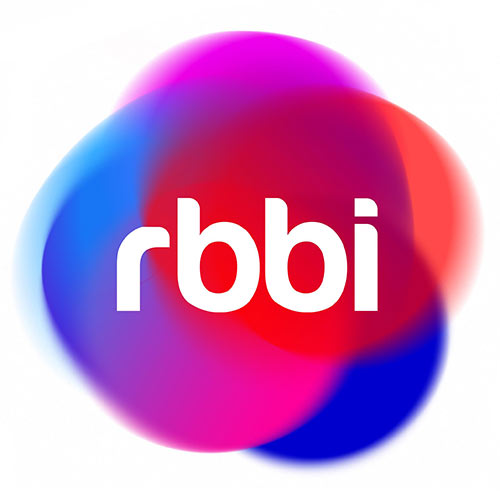
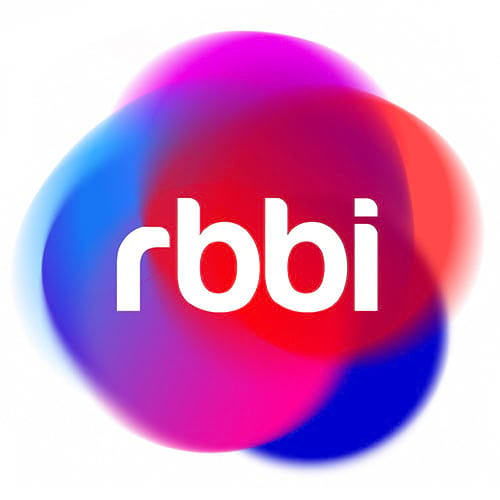
chore+update(projects): Image compression and project updates

diff --git a/index.html b/index.html
@@ -112,11 +112,11 @@
           <p class="lead mb-4">
             I'm a
             <strong>front-end developer with 6 years of experience</strong>
-            and with a strong background in <strong>User Experience</strong>. I've had
-            the opportunity to work with culturally diverse teams and tech
-            stacks which opened up avenues to projects of varying scales such
-            as WordPress sites, SPAs, Sitecore sites and custom MVC frameworks.
-            As for my education; I majored in
+            and with a strong background in <strong>User Experience</strong>.
+            I've had the opportunity to work with culturally diverse teams and
+            tech stacks which opened up avenues to projects of varying scales
+            such as WordPress sites, SPAs, Sitecore sites and custom MVC
+            frameworks. As for my education; I majored in
             <strong>Computer Systems</strong> and graduated with
             <strong>distinction</strong> from Heriot-Watt University in Dubai.
           </p>
@@ -217,7 +217,7 @@
                 <div class="company-logo">
                   <img
                     class="pt-2"
-                    src="img/omnia-logo.jpeg"
+                    src="img/omnia-logo.jpg"
                     alt="OMNIA"
                     width="55"
                   />
@@ -657,8 +657,8 @@
             <div class="col-lg-6">
               <img
                 class="img-fluid"
-                src="img/cf-food-ordering-app.png"
-                alt="Jungle CommerceJS"
+                src="img/cf-food-ordering-app.jpg"
+                alt="Food Ordering App"
               />
             </div>
             <div class="col-lg-6">
@@ -694,7 +694,7 @@
             <div class="col-lg-6">
               <img
                 class="img-fluid"
-                src="img/jungle-commerce-js.png"
+                src="img/jungle-commerce-js.jpg"
                 alt="Jungle CommerceJS"
               />
             </div>
@@ -732,7 +732,7 @@
                 type="video/mp4;"
               />
               <img
-                src="img/face-recog.png"
+                src="img/face-recog.jpg"
                 title="Your browser does not support the <video> tag"
               />
             </video>
@@ -767,12 +767,13 @@
               </div>
             </div>
           </div>
+
           <div class="row justify-content-center no-gutters my-5">
             <div class="col-lg-6">
               <img
                 class="img-fluid"
-                src="img/travel-site.png"
-                alt="Modern Developer Standards"
+                src="img/react-image-gallery.png"
+                alt="React Image Gallery"
               />
             </div>
             <div class="col-lg-6 order-lg-first">
@@ -781,23 +782,17 @@
                   <div
                     class="project-text w-100 my-auto text-center text-lg-left"
                   >
-                    <h4 class="text-black">
-                      Showcasing Modern Developer Standards
-                    </h4>
+                    <h4 class="text-black">React Image Gallery</h4>
                     <p class="mb-0 text-black-50">
-                      In an effort to continuously catch up with the ever
-                      evolving world of development, I created a demo site to
-                      showcase my expertise and knowledge of modern development
-                      standards. The technologies I used for this fully
-                      responsive & optimized site are: Node.js, NPM,
-                      Object-oriented JavaScript, ES6, webpack, Gulp & BEM
+                      Powered by React and styled with Tailwind, I built a
+                      searchable image gallery app using the Pixabay API.
                     </p>
                     <a
                       class="btn btn--portfolio-links mt-3"
-                      href="https://nigelmarshal.github.io/travel-site/"
+                      href="https://github.com/NigelMarshal/react-tailwind-image-gallery"
                       target="_blank"
                       rel="noopener noreferrer"
-                      >Click me and check it out!</a
+                      >Check out the code and demo here!</a
                     >
                     <hr class="d-none d-lg-block mb-0 mr-0" />
                   </div>
@@ -965,6 +960,49 @@
                       its "like" button.
                     </p>
                     <hr class="d-none d-lg-block mb-0 ml-0" />
+                  </div>
+                </div>
+              </div>
+            </div>
+            <div class="row justify-content-center no-gutters my-5">
+              <div class="col-lg-6">
+                <img
+                  class="img-fluid"
+                  src="img/travel-site.png"
+                  alt="Modern Developer Standards"
+                />
+              </div>
+              <div class="col-lg-6 order-lg-first">
+                <div class="bg-black text-center h-100 project">
+                  <div class="d-flex h-100 p-3">
+                    <div
+                      class="
+                        project-text
+                        w-100
+                        my-auto
+                        text-center text-lg-left
+                      "
+                    >
+                      <h4 class="text-black">
+                        Showcasing Modern Developer Standards
+                      </h4>
+                      <p class="mb-0 text-black-50">
+                        In an effort to continuously catch up with the ever
+                        evolving world of development, I created a demo site to
+                        showcase my expertise and knowledge of modern
+                        development standards. The technologies I used for this
+                        fully responsive & optimized site are: Node.js, NPM,
+                        Object-oriented JavaScript, ES6, webpack, Gulp & BEM
+                      </p>
+                      <a
+                        class="btn btn--portfolio-links mt-3"
+                        href="https://nigelmarshal.github.io/travel-site/"
+                        target="_blank"
+                        rel="noopener noreferrer"
+                        >Click me and check it out!</a
+                      >
+                      <hr class="d-none d-lg-block mb-0 mr-0" />
+                    </div>
                   </div>
                 </div>
               </div>
